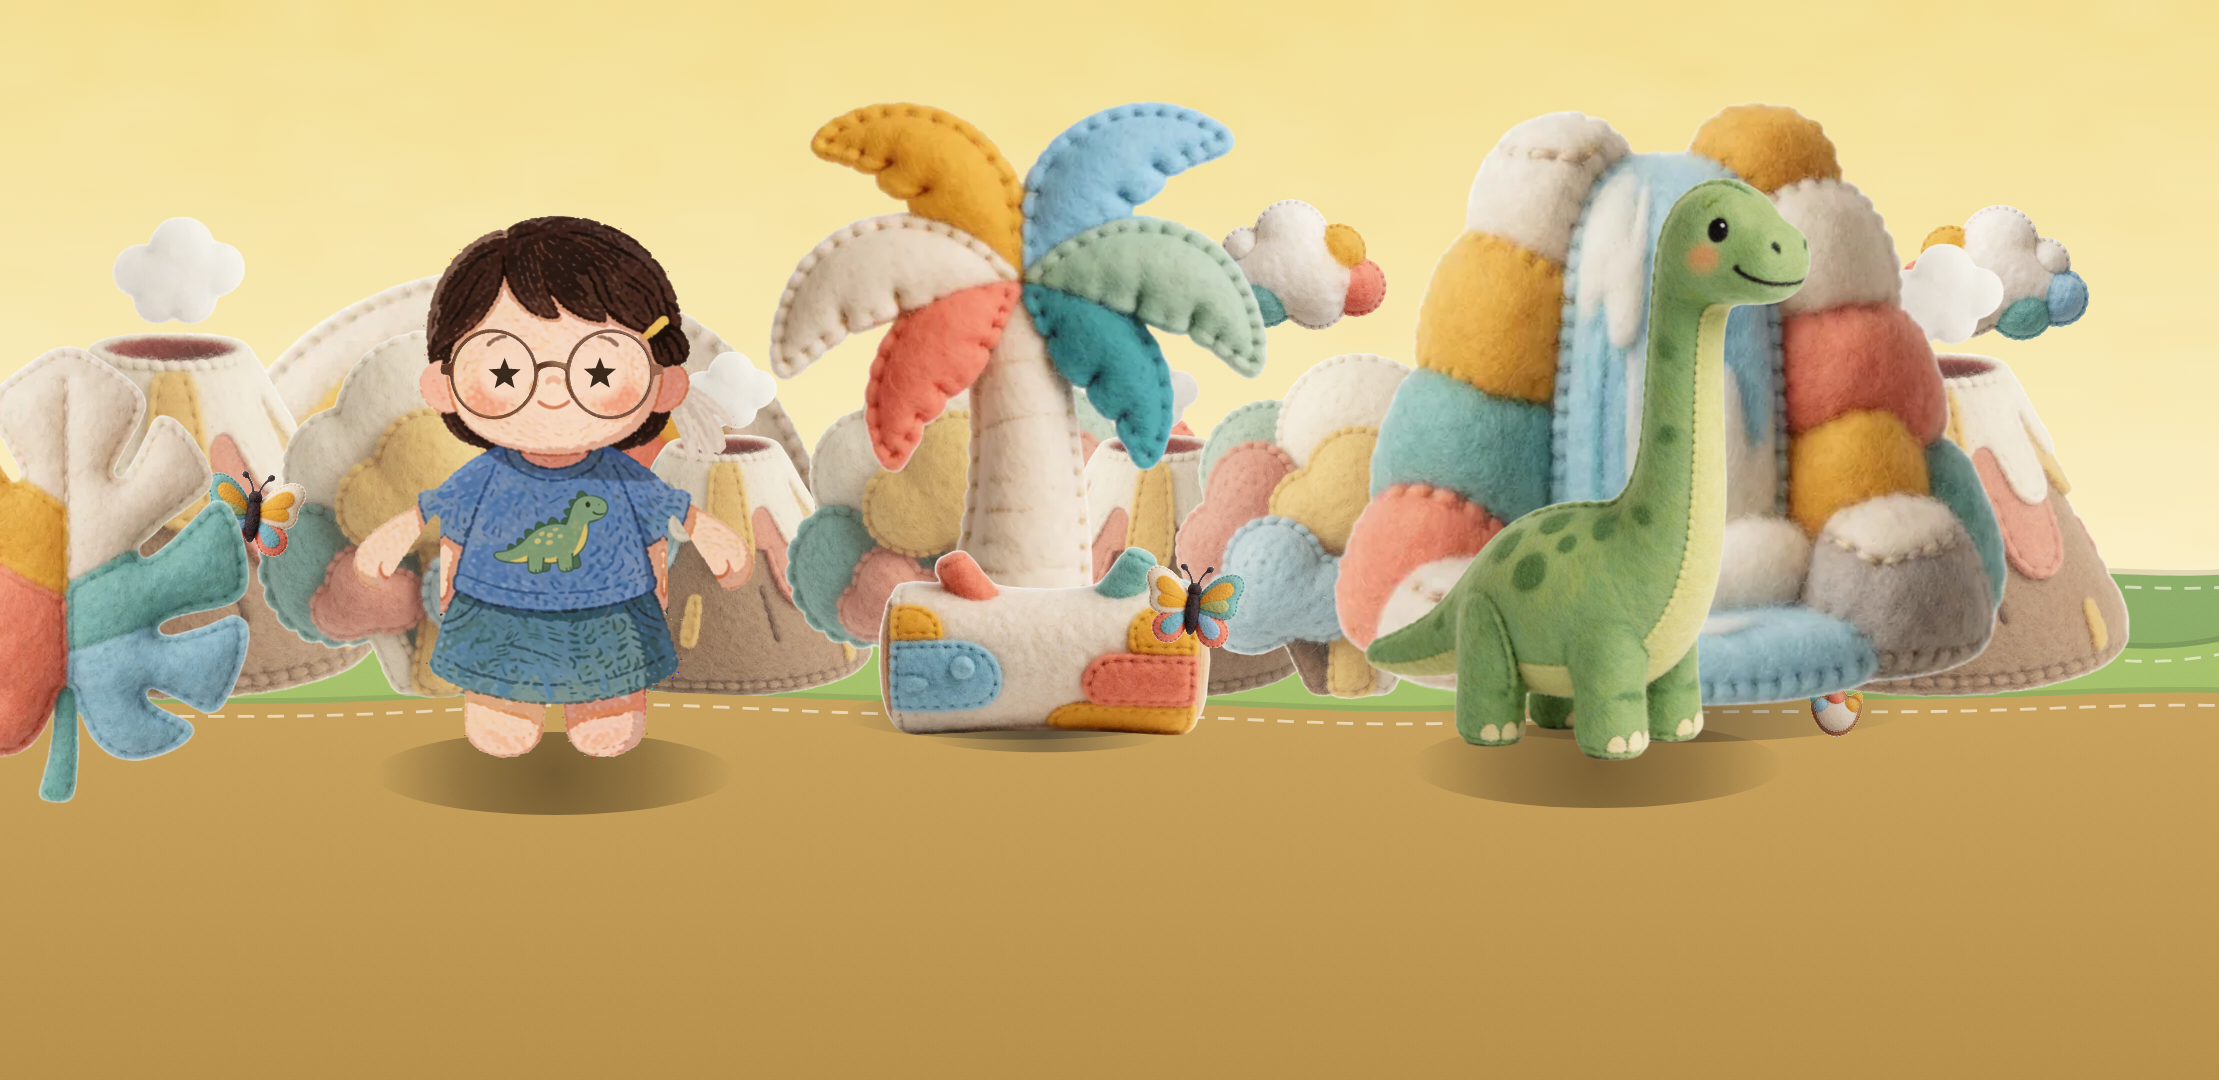
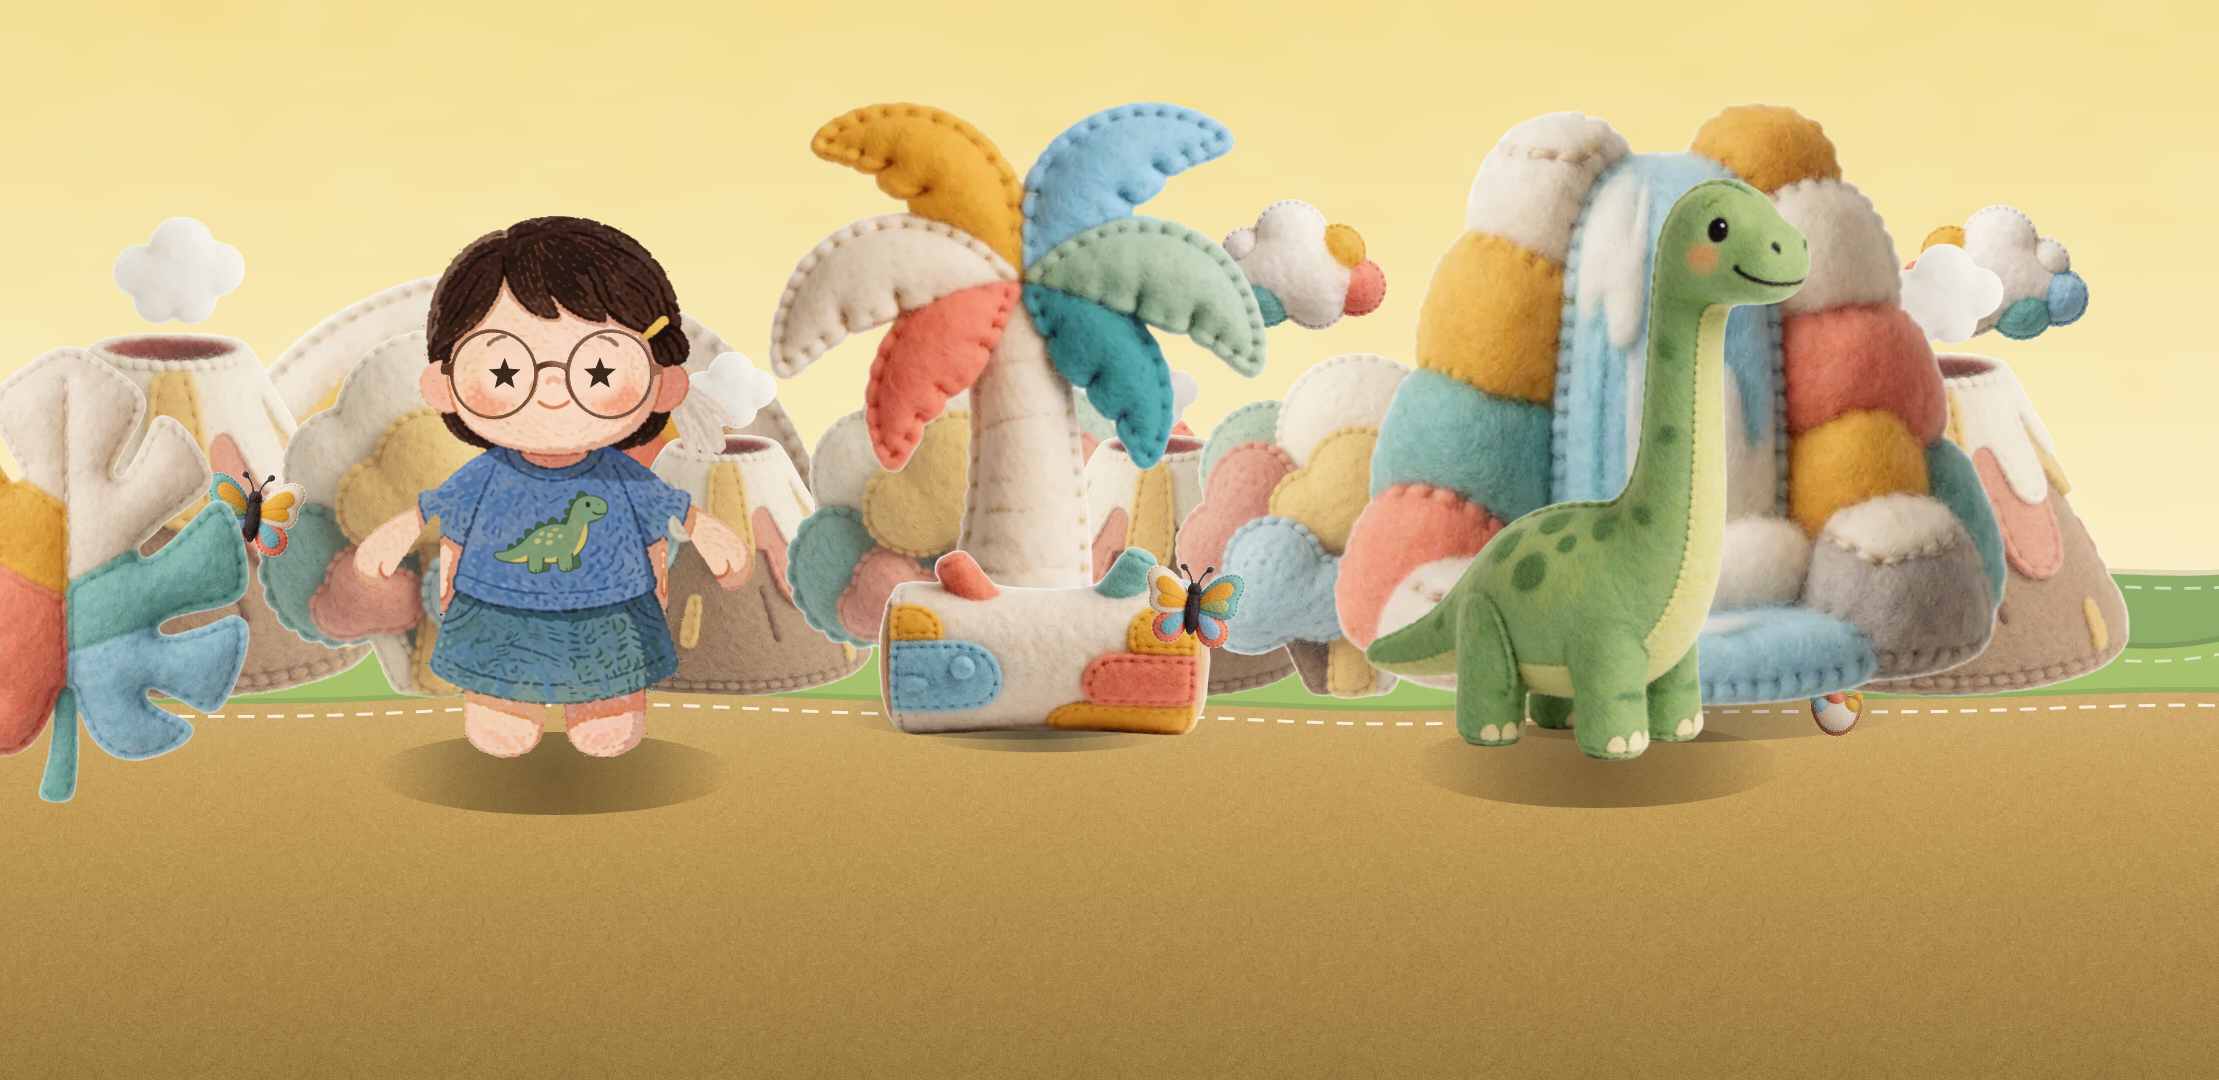
feat(scene): felt ground — depth shading, fibre, a baked ground picture when bundled, small tufts in the near ground
The ground was one flat colour with a faint 96 px noise tile under baked 3D felt pieces, so the bottom of
the stage read as a plastic sheet (10-07 종훈). The ground now gets a light horizon band and a darker
front, a coarser felt-fibre texture, and kit_<kit>_ground when 치영 bakes it (art/bg_kit/README.md has the
eight prompts). A few small cover pieces are sprinkled below the actors' feet on their own random stream,
so existing layouts are unchanged. world_kit_*.png (for looking) re-rendered.

diff --git a/android/app/src/main/java/com/example/finalproject_demo/ui/SceneKitView.kt b/android/app/src/main/java/com/example/finalproject_demo/ui/SceneKitView.kt
@@ -177,10 +177,7 @@ fun FeltFloor(ground: Color, bottomInset: Dp, modifier: Modifier = Modifier) {
         val hPx = with(density) { maxHeight.toPx() }
         val f = remember(wPx, hPx, bottomInset) { with(density) { stageFrame(wPx, hPx, bottomInset, 0.dp) } }
         val shape = remember(f) { hillShape(f, 4f, f.horizon, 5f, 140f) }
-        Canvas(Modifier.fillMaxSize()) {
-            hill(f, shape, ground)
-            clipPath(shape.fill) { drawRect(grain, alpha = 0.07f, blendMode = BlendMode.Overlay) }
-        }
+        Canvas(Modifier.fillMaxSize()) { feltGround(f, shape, ground, null, grain) }
     }
 }
 
@@ -189,6 +186,7 @@ private fun kitBitmaps(kit: SceneKitDef): Map<String, ImageBitmap> {
     val out = HashMap<String, ImageBitmap>()
     // a fixed list per kit, so the composable calls below keep their order
     for (res in kit.pieces.map { it.res }.distinct()) assetBitmap(res)?.let { out[res] = it }
+    groundRes(kit).let { r -> assetBitmap(r)?.let { out[r] = it } }
     // the pictures of who comes by (the bird) — not in the layout, so not among the pieces
     for (res in VISITORS_BY_KIT[kit.key].orEmpty().flatMap { listOf(it.sit, it.fly) }) assetBitmap(res)?.let { out[res] = it }
     return out
@@ -216,8 +214,7 @@ private fun DrawScope.drawKitBack(
     }
     scene.pieces.filter { it.fade > 0f }.forEach { drawPiece(it) }
     // ground — from the actors' depth-0 feet line down, soft wavy stitched edge
-    hill(f, hills[2], Color(kit.ground))
-    drawRect(grain, alpha = 0.07f, blendMode = BlendMode.Overlay)
+    feltGround(f, hills[2], Color(kit.ground), imgs[groundRes(kit)], grain)
     // ground pieces: flat first, then by feet (far → near), then what floats
     val ground = scene.pieces.filter { it.piece.base == PieceBase.FEET && it.fade == 0f && !it.front }
     ground.filter { it.piece.role == PieceRole.FLAT }.forEach { drawPiece(it) }
@@ -243,7 +240,7 @@ fun renderKitPicture(context: android.content.Context, kit: SceneKitDef, seedBas
     @Suppress("DiscouragedApi")
     fun load(name: String) = res.getIdentifier(name, "drawable", context.packageName).takeIf { it != 0 }
         ?.let { android.graphics.BitmapFactory.decodeResource(res, it, opt)?.asImageBitmap() }
-    val imgs = kit.pieces.map { it.res }.distinct().mapNotNull { r -> load(r)?.let { r to it } }.toMap()
+    val imgs = (kit.pieces.map { it.res } + groundRes(kit)).distinct().mapNotNull { r -> load(r)?.let { r to it } }.toMap()
     val dm = res.displayMetrics
     val density = dm.density
     // size 0 = the frame the stage itself last drew in; before any stage, this screen with the stage's chrome
@@ -272,6 +269,27 @@ fun renderKitPicture(context: android.content.Context, kit: SceneKitDef, seedBas
 /** Felt grain — a small noise tile, repeated; plus a coarse blotch map stretched over the stage. Made once. */
 private object FeltNoise {
     val grain: ImageBitmap by lazy { noise(96, 96, 20, seed = 11) }
+    /** Felt fibre for the ground — short streaks, larger than [grain], so it still reads on a 3× screen */
+    val fibreBrush: ShaderBrush by lazy { ShaderBrush(ImageShader(fibre(256, 256, seed = 23), TileMode.Repeated, TileMode.Repeated)) }
+
+    private fun fibre(w: Int, h: Int, seed: Int): ImageBitmap {
+        val rnd = java.util.Random(seed.toLong())
+        val v = IntArray(w * h) { 128 }
+        // short random strokes, light and dark — the look of matted wool fibres
+        repeat(w * h / 10) {
+            val x0 = rnd.nextInt(w); val y0 = rnd.nextInt(h)
+            val a = rnd.nextDouble() * Math.PI
+            val len = 3 + rnd.nextInt(9)
+            val d = if (rnd.nextBoolean()) 38 else -38
+            for (k in 0 until len) {
+                val x = Math.floorMod(x0 + (k * kotlin.math.cos(a)).toInt(), w)
+                val y = Math.floorMod(y0 + (k * kotlin.math.sin(a)).toInt(), h)
+                v[y * w + x] = (v[y * w + x] + d).coerceIn(0, 255)
+            }
+        }
+        val px = IntArray(w * h) { (0xFF shl 24) or (v[it] shl 16) or (v[it] shl 8) or v[it] }
+        return Bitmap.createBitmap(px, w, h, Bitmap.Config.ARGB_8888).asImageBitmap()
+    }
     val blotch: ImageBitmap by lazy { noise(40, 24, 36, seed = 5) }
 
     private fun noise(w: Int, h: Int, spread: Int, seed: Int): ImageBitmap {
@@ -363,6 +381,42 @@ private fun DrawScope.hill(f: SceneFrame, shape: HillShape, color: Color) {
         max(0f, color.red - 18f / 255f), max(0f, color.green - 18f / 255f), max(0f, color.blue - 18f / 255f),
     )
     drawPath(shape.fill, Brush.verticalGradient(listOf(color, dark), startY = shape.y0, endY = f.h))
+    drawPath(shape.stitch, Color(0xFFFFFAEE).copy(alpha = 0.6f), style = Stroke(width = 2f * sy,
+        pathEffect = PathEffect.dashPathEffect(floatArrayOf(10f * sx, 8f * sx))))
+}
+
+/** A kit's baked felt ground picture (`kit_<key>_ground`, 치영's bake) — while it is not bundled the ground is the felt colour */
+private fun groundRes(kit: SceneKitDef) = "kit_${kit.key}_ground"
+
+/**
+ * The ground felt (10-07 종훈: 「공원 바닥 퀄리티가 너무 낮다」). It was one flat colour with a 7 % noise tile, under pieces
+ * that are baked 3D felt — the bottom of the stage read as a plastic sheet. Now:
+ *  - the baked ground picture of the kit, when bundled, fills the ground (cover-scaled from the horizon down)
+ *  - depth: a light band at the horizon and a darker front, so the floor lies back instead of standing up
+ *  - fibre: a coarser grain, stronger, only on the ground
+ * Then the running stitches again on top, so the edge stays felt.
+ */
+private fun DrawScope.feltGround(f: SceneFrame, shape: HillShape, color: Color, texture: ImageBitmap?, grain: ShaderBrush) {
+    hill(f, shape, color)
+    clipPath(shape.fill) {
+        if (texture != null) {
+            val top = shape.y0 - 0.02f * f.h
+            val hh = f.h - top
+            val scale = max(f.w / texture.width, hh / texture.height)
+            val dw = (texture.width * scale).roundToInt()
+            val dh = (texture.height * scale).roundToInt()
+            drawImage(texture, dstOffset = IntOffset(((f.w - dw) / 2).roundToInt(), top.roundToInt()), dstSize = IntSize(dw, dh),
+                filterQuality = FilterQuality.Medium)
+        }
+        drawRect(Brush.verticalGradient(
+            0f to Color.White.copy(alpha = 0.10f), 0.22f to Color.Transparent, 1f to Color.Black.copy(alpha = 0.16f),
+            startY = shape.y0, endY = f.h,
+        ))
+        drawRect(FeltNoise.fibreBrush, alpha = if (texture != null) 0.06f else 0.16f, blendMode = BlendMode.Overlay)
+        drawRect(grain, alpha = 0.07f, blendMode = BlendMode.Overlay)
+    }
+    val sx = f.w / 1344f
+    val sy = f.h / 768f
     drawPath(shape.stitch, Color(0xFFFFFAEE).copy(alpha = 0.6f), style = Stroke(width = 2f * sy,
         pathEffect = PathEffect.dashPathEffect(floatArrayOf(10f * sx, 8f * sx))))
 }

diff --git a/android/app/src/main/java/com/example/finalproject_demo/demo/scene/SceneLayout.kt b/android/app/src/main/java/com/example/finalproject_demo/demo/scene/SceneLayout.kt
@@ -239,12 +239,42 @@ fun layoutScene(kit: SceneKitDef, seed: Long, actors: Int, f: SceneFrame): List<
         }
     }
 
+    // near ground — a few small tufts between the actors' feet and the bottom edge (10-07 종훈: the front of the
+    // park was a bare green sheet). Own random stream, so every scene above keeps the layout it had
+    out += nearTufts(kit, seed, f, keep)
+
     // foreground — one big piece cut by a bottom corner (the cheapest depth there is), drawn over the actors
     val fronts = kit.byRole(PieceRole.FOREGROUND)
     if (fronts.isNotEmpty()) {
         val p = fronts[rng.nextInt(fronts.size)]
         val left = rng.nextBoolean()
         out += PlacedPiece(p, W * (if (left) 0.03f else 0.97f), f.bottom + 0.04f * H, p.size * f.heroH(1.15f), !left && p.flip)
+    }
+    return out
+}
+
+/** Pieces small enough to scatter in the near ground — grass, flowers, stones; not a bench or a sandcastle */
+private const val TUFT_MAX_SIZE = 0.32f
+
+/**
+ * Small cover pieces sprinkled below the actors' feet line ([SceneFrame.feetNear] … [SceneFrame.bottom]), each alone,
+ * never on an actor or a tab. Sized as at the front row but smaller — they are the nearest felt, not a second row.
+ */
+fun nearTufts(kit: SceneKitDef, seed: Long, f: SceneFrame, keep: List<Box>): List<PlacedPiece> {
+    val pool = kit.byRole(PieceRole.COVER).filter { it.copies == 0 && it.size <= TUFT_MAX_SIZE }
+    if (pool.isEmpty() || f.bottom - f.feetNear < 0.04f * f.h) return emptyList()
+    val rng = Random(seed xor 0x5EED_6A0DL)
+    val out = mutableListOf<PlacedPiece>()
+    val want = 4 + rng.nextInt(3)
+    var tries = 0
+    while (out.size < want && tries++ < want * 20) {
+        val p = pool[rng.nextInt(pool.size)]
+        val y = rng.range(f.feetNear + 0.03f * f.h, f.bottom - 0.005f * f.h)
+        val h = p.size * f.heroH(1f) * rng.range(0.55f, 0.8f)
+        val c = PlacedPiece(p, rng.range(0.04f, 0.96f) * f.w, y, h, p.flip && rng.nextBoolean())
+        if (keep.any { it.inter(c.box) > 0f }) continue
+        if (out.any { abs(it.x - c.x) < 0.09f * f.w }) continue
+        out += c
     }
     return out
 }

diff --git a/android/app/src/test/java/com/example/finalproject_demo/SceneLayoutTest.kt b/android/app/src/test/java/com/example/finalproject_demo/SceneLayoutTest.kt
@@ -60,8 +60,8 @@ class SceneLayoutTest {
                 } else if (p.piece.role == PieceRole.FLOAT) {
                     assertTrue("${p.piece.name} floats in the air", p.y < f.horizon)
                 } else {
-                    // ground pieces stand between the horizon and the actors' front feet line
-                    assertTrue("${p.piece.name} feet ${p.y}", p.y >= f.feetY(0f) - 0.01f * f.h && p.y <= f.feetNear + 0.5f)
+                    // ground pieces stand between the horizon and the actors' front feet line — the near tufts (10-07) below it, above the stage bottom
+                    assertTrue("${p.piece.name} feet ${p.y}", p.y >= f.feetY(0f) - 0.01f * f.h && p.y <= maxOf(f.feetNear, f.bottom) + 0.5f)
                 }
             }
         }

diff --git a/art/bg_kit/README.md b/art/bg_kit/README.md
@@ -77,3 +77,24 @@
 
 - 앱 공통 그림체 문구(`gen_room.STYLE`)의 색 목록(크림 · 머스터드 · 코랄 · 청록 · 하늘) 때문에 **물체에 그 색 조각 · 점이 들어간다** — 돌의 점, 「빨강 · 하양 공」이 파스텔 여러 색, 풀이 여러 색. 앱 다른 그림과 맞추려고 그대로 두었다
 - 장당 약 52초(그리기 48초 + 배경 빼기 4초 · RTX 4060 노트북). 배경 빼기 실패 0장 / 57장. 문구가 엉뚱하게 나온 것 3종(9장)은 다시 구웠다
+
+## 바닥 그림 (10-07 종훈 · 「공원 바닥 퀄리티가 너무 낮다」)
+
+바닥은 지금 **코드가 칠한 단색 면**이다. 조각은 구운 3D 펠트인데 바닥만 평면이라 무대 아래쪽이 비닐처럼 보였다.
+앱은 이제 키트마다 `kit_<키트>_ground` 그림이 있으면 그것을 바닥에 깐다(지평선부터 아래까지 꽉 채움 · 가장자리 바늘땀은 앱이 그 위에 다시 그린다).
+없으면 전처럼 단색 + 앱이 넣은 결 · 원근 음영이다 — 그래서 구운 순서대로 하나씩 넣어도 된다.
+
+뽑기 — `bg` 크기(1344×768) · 펠트 그림체 그대로. **하늘 · 지평선 · 물건이 없어야 한다**(앱이 지평선 위를 잘라 쓰지 않는다 — 그림 전체가 땅이다).
+
+```powershell
+python tools\otto_art.py bg kit_park_ground   "soft green wool felt meadow ground filling the whole frame, low camera angle, felt fibers, a few tiny stitched grass tufts and tiny felt clover, no sky, no horizon, no objects, no path"
+python tools\otto_art.py bg kit_dino_ground   "warm olive green and sandy wool felt jungle ground filling the whole frame, low camera angle, felt fibers, a few tiny stitched fern sprouts and pebbles, no sky, no horizon, no objects"
+python tools\otto_art.py bg kit_space_ground  "pale lilac grey wool felt moon ground filling the whole frame, low camera angle, felt fibers, a few tiny stitched dimples, no sky, no horizon, no objects, no stars"
+python tools\otto_art.py bg kit_sea_ground    "soft sandy beige wool felt sea floor filling the whole frame, low camera angle, felt fibers, a few tiny stitched ripples and pebbles, no water surface, no horizon, no objects"
+python tools\otto_art.py bg kit_indoor_ground "warm honey wooden floor made of felt planks filling the whole frame, low camera angle, felt fibers, visible stitched plank lines, no walls, no horizon, no objects, no rug"
+python tools\otto_art.py bg kit_forest_ground "soft moss green wool felt forest ground filling the whole frame, low camera angle, felt fibers, a few tiny stitched leaves and grass tufts, no sky, no horizon, no objects"
+python tools\otto_art.py bg kit_beach_ground  "soft warm sand colored wool felt beach ground filling the whole frame, low camera angle, felt fibers, a few tiny stitched sand ripples, no water, no horizon, no objects, no shells"
+python tools\otto_art.py bg kit_snow_ground   "soft white wool felt snow ground filling the whole frame, low camera angle, felt fibers, gentle stitched snow drifts, no sky, no horizon, no objects"
+```
+
+고를 때 — 색이 키트의 `ground` 색(`demo/scene/SceneKit.kt`)과 가까운가 · 물건 · 글자 · 지평선이 없는가 · 아래쪽이 위쪽보다 결이 크게 보이나(원근). 고른 것은 `pick` 뒤 webp 로 `res/drawable-nodpi/kit_<키트>_ground.webp` (다른 키트 조각과 같은 자리). 8장 × 3후보 ≈ 20분.
